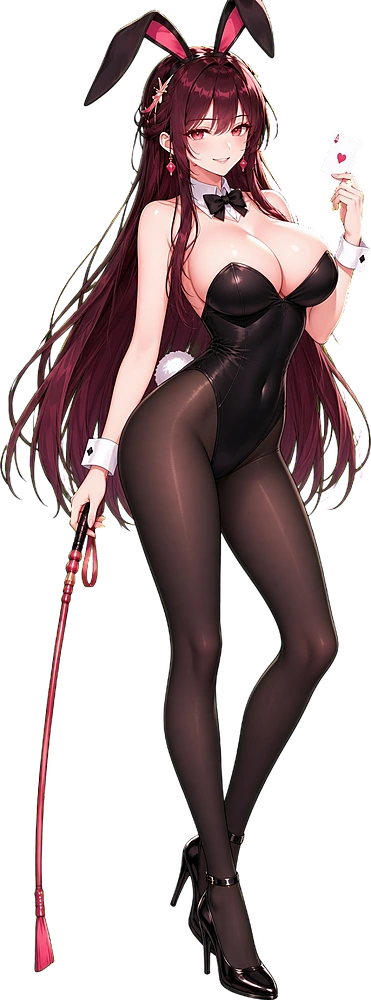
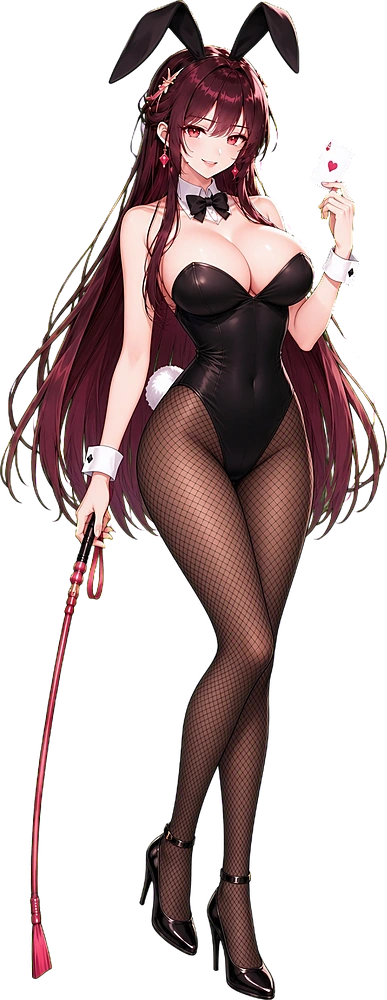
격투: 바니걸 소영 전신 · 얼굴 최종 그림 (망사 · 카드), 선택 화면 위치 맞춤
Claude-Session: https://claude.ai/code/session_01Q2UB7i4vqxayb5flgw9kqa

diff --git a/web/src/lib/fight/skins.ts b/web/src/lib/fight/skins.ts
@@ -32,7 +32,7 @@ export const FIGHT_SKINS: FightSkin[] = [
     ch: "soyoung",
     name: "바니걸 소영",
     tag: "MIDNIGHT BUNNY",
-    desc: "안경을 벗고 머리를 풀어 내린 소영. 올블랙 바니 수트에 트럼프 카드 한 장 — 오늘 수업은 조금 다를 거예요.",
+    desc: "안경을 벗고 머리를 풀어 내린 소영. 올블랙 바니 수트에 망사 스타킹, 트럼프 카드 한 장 — 오늘 수업은 조금 다를 거예요.",
     color: "#B0305A",
   },
 ];
@@ -49,7 +49,7 @@ export function look(ch: number, skin?: string | null): string {
   return s && s.ch === id ? s.id : id;
 }
 /** 스킨 그림을 바꿨을 때 올려서 브라우저에 남은 예전 그림 대신 새로 받게 함 */
-const ART_VER: Record<string, number> = { "soyoung-bunny": 6 };
+const ART_VER: Record<string, number> = { "soyoung-bunny": 7 };
 const ver = (id: string) => (ART_VER[id] ? `?v=${ART_VER[id]}` : "");
 export const artUrl = (ch: number, skin?: string | null) => `/fight/art/${look(ch, skin)}.webp${ver(look(ch, skin))}`;
 export const faceUrl = (ch: number, skin?: string | null) => `/fight/art/${look(ch, skin)}-face.webp${ver(look(ch, skin))}`;

diff --git a/web/src/components/Fight/Select.tsx b/web/src/components/Fight/Select.tsx
@@ -48,7 +48,7 @@ const art = (c: CharDef) => `/fight/art/${c.id}.webp`;
 /** 선택 화면 전신 그림 배율 (그림마다 인물이 차지하는 크기가 달라서 — 발 위치는 그대로) */
 const ART_SCALE: Record<string, number> = { soyoung: 0.86, "soyoung-bunny": 0.96 };
 /** 스킨 전신 그림이 기본보다 폭이 좁아 한쪽으로 쏠릴 때 안쪽으로 미는 양 (cqw) */
-const ART_DX: Record<string, number> = { "soyoung-bunny": 2.5 };
+const ART_DX: Record<string, number> = { "soyoung-bunny": 3.4 };
 const PX = "[image-rendering:pixelated]";
 /** 캐릭터 고르기 칸: 한 줄에 몇 칸 (↑↓ 은 이만큼 건너뜀) */
 const FACE_COLS = 4;
